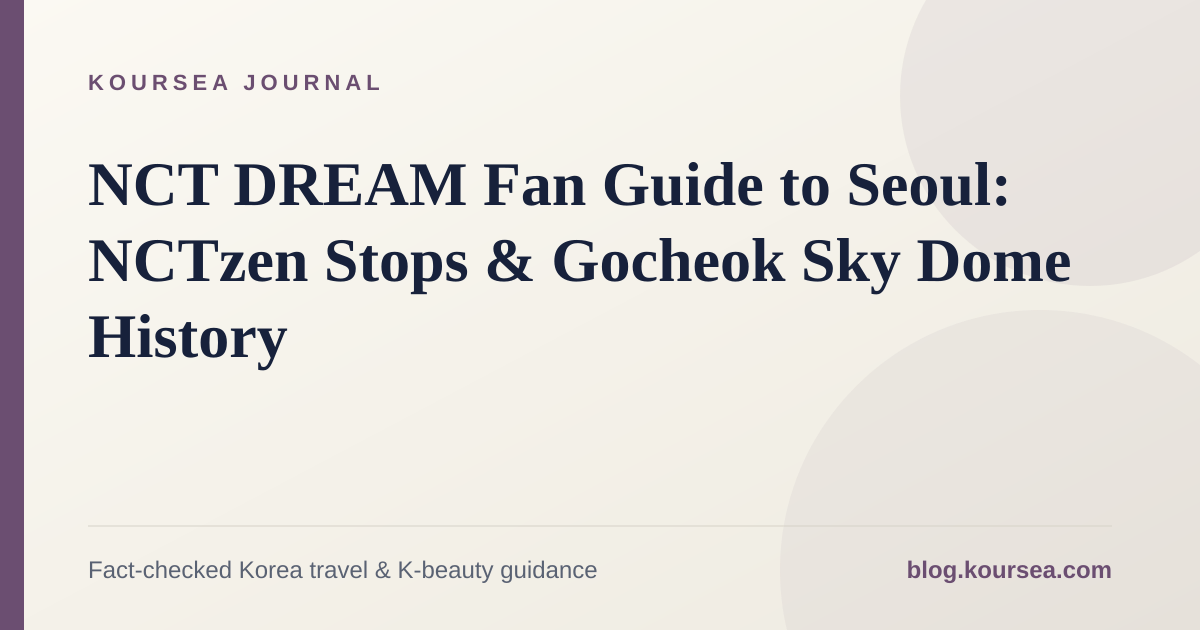
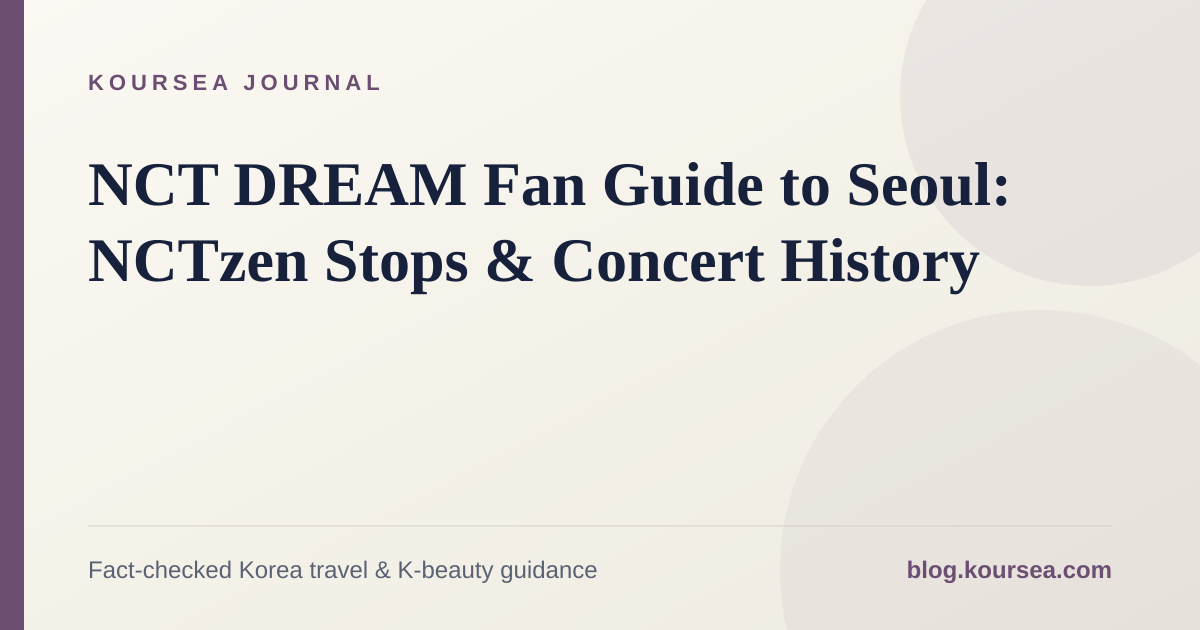
Fix NCT DREAM concert history, ticket pickup claims, and Jeonju travel-time citation
- NCT DREAM post: correct "most recent Seoul concert" from July 2025 Gocheok
  Sky Dome to the March 2026 KSPO DOME finale (six-show THE DREAM SHOW 4:
  FUTURE THE DREAM, confirmed via official Weverse notice + corroborated by
  Korean entertainment press). Distinguish the shared NCTzen fandom name from
  the "NCTzen DREAM" (GL) membership actually used for ticket presales.
  Replace "no official announcement" framing with "could not confirm through
  channels checked" where that's the accurate claim.
- Ticketing post: remove unsourced generalizations about pickup mechanics
  (reservation-number-only, kiosk pickup, pickup-window timing, Yes24
  will-call-only, uniform ID rules) and replace with a checklist of what to
  confirm from each show's own official notice instead.
- Jeonju post: remove the unsourced "1.5-2 hours" KTX estimate; point readers
  to the official KORAIL/SRT search instead, and distinguish Yongsan (KTX)
  from Suseo (SRT) departure stations. Fix a "next section" reference that
  no longer matched section order, and stop implying all hanok stays use
  floor bedding.

Claude-Session: https://claude.ai/code/session_016wJQfJdigc7spdJqcPYteE

Changed region(s): [[0.4625, 0.3619, 0.8942, 0.4825], [0.0617, 0.4825, 0.2467, 0.6032]]

diff --git a/src/content/posts/nct-dream-fan-guide-seoul.md b/src/content/posts/nct-dream-fan-guide-seoul.md
@@ -1,31 +1,31 @@
 ---
-title: "NCT DREAM Fan Guide to Seoul: NCTzen Stops & Gocheok Sky Dome History"
-description: "A practical NCT DREAM fan guide to Seoul: the shared KWANGYA@SEOUL retail stop, the group's Gocheok Sky Dome tour history, and what's still unconfirmed for late 2026."
+title: "NCT DREAM Fan Guide to Seoul: NCTzen Stops & Concert History"
+description: "A practical NCT DREAM fan guide to Seoul: the shared KWANGYA@SEOUL retail stop, the group's Gocheok Sky Dome and KSPO DOME concert history, and what's still unconfirmed beyond it."
 pubDate: 2026-09-22
 updatedDate: 2026-09-22
 category: "K-Pop & Concerts"
-tags: ["nct dream", "nctzen", "kwangya seoul", "gocheok sky dome", "sm entertainment", "kpop concert tickets"]
+tags: ["nct dream", "nctzen", "kwangya seoul", "kspo dome", "sm entertainment", "kpop concert tickets"]
 canonicalUrl: "https://blog.koursea.com/posts/nct-dream-fan-guide-seoul/"
 author: "Koursea Editorial"
 faq:
   - question: "Where is the official public NCT DREAM stop in Seoul?"
     answer: "This guide points to the shared KWANGYA@SEOUL retail store in Seongsu, the same official SM Entertainment stop already documented in Koursea's NCT 127 and RIIZE guides, rather than creating a duplicate venue entry."
-  - question: "Has NCT DREAM confirmed a Seoul concert or venue for late 2026?"
-    answer: "Not as of this writing. NCT's 10th-anniversary plans have been reported for the wider group, but no NCT DREAM-specific 2026 Seoul tour date or venue was confirmed through an official channel when this guide was checked."
-  - question: "Where did NCT DREAM last perform in Seoul?"
-    answer: "Their own official account confirmed three Dream Show 4: Dream the Future dates at Gocheok Sky Dome on July 10-12, 2025. That tour is now finished."
+  - question: "Where did NCT DREAM most recently perform in Seoul?"
+    answer: "Their official Weverse notice confirmed a six-show 'THE DREAM SHOW 4: FUTURE THE DREAM' FINALE at KSPO DOME on March 20, 21, 22, 27, 28, and 29, 2026, corroborated by Korean entertainment press. Their July 2025 Gocheok Sky Dome shows opened that same tour and are not the most recent Seoul dates."
+  - question: "Is 'NCTzen' the same as the membership needed for a DREAM ticket presale?"
+    answer: "No. NCTzen is NCT's shared fandom name across all units. The specific membership used for NCT DREAM ticket presales is 'NCTzen DREAM' (GL) — sign up for it separately on Weverse before a sale, rather than assuming the general fandom name alone grants presale access."
 ---
 
-# NCT DREAM Fan Guide to Seoul: NCTzen Stops & Gocheok Sky Dome History
+# NCT DREAM Fan Guide to Seoul: NCTzen Stops & Concert History
 
-NCT DREAM is an SM Entertainment group and shares the collective's official fandom name, **NCTzen**, with NCT's other units. There is no separately adopted official fandom name just for DREAM, whatever informal nicknames circulate among fans. For a Seoul visit, the useful official public stop is the same [KWANGYA@SEOUL](https://www.koursea.com/place/sm-kwangya-seoul-forest/) already covered on Koursea's [NCT 127](/posts/nct127-fan-guide-sm-seongsu/) and [RIIZE](/posts/riize-fan-guide-sm-seongsu/) guides — not a separate DREAM-only shop, and not the old SMTOWN Coex Artium.
+NCT DREAM is an SM Entertainment group and shares the collective's official fandom name, **NCTzen**, with NCT's other units. For ticket presales specifically, the group uses its own membership tier, **"NCTzen DREAM" (GL)**, registered through Weverse — don't confuse the general fandom name with the specific membership a presale actually checks. For a Seoul visit, the useful official public stop is the same [KWANGYA@SEOUL](https://www.koursea.com/place/sm-kwangya-seoul-forest/) already covered on Koursea's [NCT 127](/posts/nct127-fan-guide-sm-seongsu/) and [RIIZE](/posts/riize-fan-guide-sm-seongsu/) guides — not a separate DREAM-only shop, and not the old SMTOWN Coex Artium.
 
 ## Key Takeaways
 
-- NCT DREAM's fandom name is NCTzen, shared across NCT and its units; there is no confirmed DREAM-specific official fandom name.
+- NCT DREAM's fandom name is NCTzen, shared across NCT and its units. Ticket presales instead check a specific membership, "NCTzen DREAM" (GL) — register for it separately on Weverse.
 - The group's shared official retail stop is KWANGYA@SEOUL in Seongsu — see our [NCT 127 guide](/posts/nct127-fan-guide-sm-seongsu/) and [SM KWANGYA Seongsu tour route](/posts/sm-kwangya-seongsu-tour-guide/) for the actual visit directions; this guide does not repeat them.
 - Do not travel to the former SMTOWN Coex Artium. It closed completely in 2020 and is not a current SM destination.
-- NCT DREAM's most recent Seoul concerts were three Gocheok Sky Dome dates in July 2025, and that tour has since finished. No NCT DREAM-specific Seoul venue or date is confirmed for late 2026 as of this writing.
+- NCT DREAM's most recent confirmed Seoul dates were a six-show "THE DREAM SHOW 4: FUTURE THE DREAM" FINALE at KSPO DOME in March 2026, which followed the same tour's July 2025 opening shows at Gocheok Sky Dome. We could not confirm a new Seoul date beyond that finale through the official channels checked for this guide.
 - Prepare with the [Foreigner's Guide to K-Pop Concert Ticketing in Seoul](/posts/kpop-concert-ticketing-seoul-2026/) before any future sale.
 
 ## The Shared Official Stop, Not a New One
@@ -34,21 +34,23 @@ KWANGYA@SEOUL, at B1, D Tower, Acro Seoul Forest, 83-21 Wangsimni-ro, Seongdong-
 
 SMTOWN Coex Artium is a separate point worth repeating on its own: it closed completely in 2020 and is not an operating SM visitor destination. Any post, video, or map pin that still treats Coex as a current SMTOWN stop is out of date.
 
-## NCT DREAM's Gocheok Sky Dome History
+## NCT DREAM's Seoul Concert History: Gocheok Sky Dome, Then KSPO DOME
 
-NCT DREAM's own official account confirmed three Seoul dates for **The Dream Show 4: Dream the Future** at **Gocheok Sky Dome** — July 10, 11, and 12, 2025. Roughly 60,000 fans attended across the three nights, per contemporaneous entertainment-press reporting. The tour continued through other Asian cities into late 2025 and early 2026, and by September 2026 it had wrapped.
+NCT DREAM's **THE DREAM SHOW 4** tour opened in Seoul with three dates at **Gocheok Sky Dome** — July 10, 11, and 12, 2025 — and roughly 60,000 fans attended across those three nights, per contemporaneous entertainment-press reporting.
 
-This history is useful context for what a future NCT DREAM show in Seoul might look like, but it is not a current booking. If DREAM announces a new Seoul date, Koursea's [K-Pop concert day venue and transport guide](/posts/kpop-concert-day-venue-transport-guide-2026/) already covers Gocheok Sky Dome's Line 1 Guil Station access, parking limits, and post-show crowd flow in detail — read that guide once a real date and venue are announced, rather than assuming the 2025 run will repeat at the same venue.
+That same tour returned to Seoul for its close: NCT DREAM's own [official Weverse notice](https://weverse.io/nctdream/notice/33191) confirmed a six-show **"THE DREAM SHOW 4: FUTURE THE DREAM" FINALE** at **KSPO DOME**, held March 20, 21, 22, 27, 28, and 29, 2026. This is corroborated by Korean entertainment press — [Starnews](https://www.starnewskorea.com/en/music/2026/03/03/2026030310465025761) reported all six shows sold out instantly after presale, and [allkpop](https://www.allkpop.com/article/2026/03/nct-dream-tour-finale-to-be-broadcast-live-in-86-cities-worldwide) reported the finale was also broadcast live in cinemas across 86 cities worldwide. **The KSPO DOME finale, not the July 2025 Gocheok Sky Dome shows, is NCT DREAM's most recent confirmed Seoul concert.**
 
-## What's Confirmed for Late 2026 — and What Isn't
+For a future Seoul show, Koursea's [K-Pop concert day venue and transport guide](/posts/kpop-concert-day-venue-transport-guide-2026/) already covers both venues — KSPO DOME's Olympic Park Station access and Gocheok Sky Dome's Line 1 Guil Station access — in detail. Read that guide once a new date and venue are announced, rather than assuming either venue will repeat.
 
-SM's wider NCT collective announced a 10th-anniversary project in 2026 covering an album release, world tours, and exhibition plans, reported by entertainment press. That confirms NCT-wide activity is planned, but it does not confirm an NCT DREAM-specific Seoul concert date, venue, or ticketing window. We could not confirm a DREAM-specific late-2026 schedule through an official SM or NCT DREAM channel at the time this guide was checked. Treat any fan-account schedule breakdown you see elsewhere as unofficial until the group or SM posts it directly through Weverse or their own account.
+## What's Confirmed Beyond the March 2026 Finale — and What Isn't
 
-If you're planning a trip around a possible NCT DREAM comeback, don't book travel or tickets around an unconfirmed date. Watch NCT DREAM's official Weverse and SM's own channels, and use our ticketing guide once a real sale is announced.
+Beyond the March 2026 KSPO DOME finale, we could not confirm a new NCT DREAM Seoul concert date, venue, or ticketing window through the official channels checked for this guide. That is a statement about the limits of this check, not a confirmed absence of plans — we were not able to review every official SM or NCT DREAM channel. Separately, SM's wider NCT collective has reported group-wide 10th-anniversary plans (album release, world tours, exhibition) through entertainment press, which confirms NCT-wide activity but not an NCT DREAM-specific Seoul date beyond the finale above.
+
+If you're planning a trip around a possible new NCT DREAM date, don't book travel or tickets around an unconfirmed show. Watch NCT DREAM's official Weverse and SM's own channels, and use our ticketing guide once a real sale is announced.
 
 ## Concert Preparation for a Future Show
 
-When NCT DREAM does announce a new Seoul date, expect the same general pattern documented in our NCT 127 and RIIZE guides: a fan-club presale first, identity verification tied to your ticket-platform account, and a general sale afterward. Confirm the seller, NCTzen membership presale steps, account-name-to-passport matching, and pickup or mobile-ticket format from that tour's own notice. Don't assume the last tour's process repeats exactly.
+For NCT DREAM specifically, the presale gate is the **"NCTzen DREAM" (GL) membership** on Weverse — register for it ahead of a sale, since the general NCTzen fandom name alone does not grant presale access. Beyond that, expect the same general pattern documented in our NCT 127 and RIIZE guides: a fan-club presale first, identity verification tied to your ticket-platform account, and a general sale afterward. Confirm the seller, membership registration deadline, account-name-to-passport matching, and pickup or mobile-ticket format from that show's own notice — don't assume the March 2026 finale's process repeats exactly for a different show.
 
 Our [K-Pop concert ticketing guide](/posts/kpop-concert-ticketing-seoul-2026/) covers NOL World, Melon Ticket, Yes24, the Korean phone-number verification step, and ticket pickup mechanics without assuming one platform's rules apply to every show.
 
@@ -56,4 +58,4 @@ Our [K-Pop concert ticketing guide](/posts/kpop-concert-ticketing-seoul-2026/) c
 
 - **Is there an NCT DREAM-only store in Seoul?** No. This guide uses the shared official KWANGYA@SEOUL location documented in our NCT 127 and RIIZE guides.
 - **Can I still visit SMTOWN Coex Artium?** No. It closed in 2020 and should not be used as an NCT DREAM destination.
-- **Where did NCT DREAM last perform in Seoul, and can I visit for a future show?** Their most recent confirmed Seoul dates were at Gocheok Sky Dome in July 2025. No new NCT DREAM Seoul date is confirmed as of this writing, so don't plan a trip around an unannounced show.
+- **Where did NCT DREAM most recently perform in Seoul?** A six-show "THE DREAM SHOW 4: FUTURE THE DREAM" FINALE at KSPO DOME in March 2026 — not the July 2025 Gocheok Sky Dome shows, which opened the same tour. We could not confirm a new Seoul date beyond that finale as of this writing.

diff --git a/src/content/posts/kpop-concert-ticketing-seoul-2026.md b/src/content/posts/kpop-concert-ticketing-seoul-2026.md
@@ -25,7 +25,7 @@ faq:
   - question: "What should I do before the on-sale waiting room opens?"
     answer: "Finish account verification and save the payment method before the queue opens, choose one site language, and follow the platform's own notice if checkout fails."
   - question: "Do I get a printable ticket after I pay?"
-    answer: "Often not immediately. Many platforms issue a reservation number that you exchange for a physical ticket at a venue box office or kiosk, with an original passport or Alien Registration Card required; some shows instead use an in-app mobile ticket. Check your confirmation email or the tour's own notice to know which applies to your show."
+    answer: "It depends on the show — some use box-office or kiosk pickup with ID, others issue an in-app mobile ticket, and we could not confirm a single rule that covers every platform or concert. Check your confirmation email and the tour's own notice for your specific show rather than assuming one format."
 ---
 
 # The Foreigner's Guide to K-Pop Concert Ticketing in Seoul (2026): NOL World, Melon Ticket & Payment Reality
@@ -73,13 +73,21 @@ High-demand shows on all three platforms use a **예매대기 (virtual waiting r
 - **Site language toggles (Korean/English) sometimes reset your session** — decide which language you're booking in and stick with it.
 - **If checkout fails partway through, don't refresh and restart blindly** — some platforms hold your seat for a short grace period, others release it immediately. Read the specific platform's own notice, since this varies.
 
-## Getting Your Physical Ticket: Box-Office Pickup vs. Mobile Entry
+## Getting Your Ticket: What to Confirm Before Show Day
 
-Finishing checkout doesn't mean you're holding a ticket. On most Korean concert platforms, what you get right after paying is a reservation number, not a scannable file, and multiple foreigner ticket-buying guides describe the same pattern for turning that into entry: go to the venue's box office or a self-service kiosk, enter the reservation number, and show ID to collect a physical ticket or wristband. Box-office pickup commonly opens a few hours before doors, not at showtime, so arriving right as the show starts can mean queuing behind everyone else doing the same pickup.
+Finishing checkout doesn't automatically mean you're holding a ticket. Korean concert platforms use a mix of formats — box-office or kiosk pickup against a reservation number, and in-app mobile tickets — and which one applies depends on the specific platform, promoter, and show. We could not confirm a single rule that covers every concert, so treat the checklist below as what to verify from your own show's official notice, not a fixed process.
 
-The identification requirement is strict and consistent across the guides we checked: bring the original passport or Alien Registration Card used on the booking account, not a photo or screenshot, and make sure the name matches your account exactly. Staff can and do refuse pickup over a mismatched or expired document. Yes24-sold shows are commonly described as will-call only, with no separate mobile-ticket option, while other platforms increasingly offer an in-app mobile ticket for at least some shows. Don't assume either format applies to your specific concert — the confirmation email or app screen after checkout, or the tour's own ticketing notice, is what actually tells you whether you're picking up at a window or scanning a phone at the gate.
+Before ticket day, confirm each of these from your confirmation email, the platform's account page, or the tour's own notice:
 
-Build pickup time into your concert-day schedule rather than treating it as a five-minute stop, especially if you're also collecting merchandise. For box-office lines and station transport at specific venues, our [K-Pop concert day venue and transport guide](/posts/kpop-concert-day-venue-transport-guide-2026/) covers KSPO Dome, Gocheok Sky Dome, Inspire Arena, and Jamsil Indoor Stadium in more detail.
+- **Delivery format.** Is this show box-office/kiosk pickup, or an in-app mobile ticket? Don't assume based on a different concert or platform you've used before.
+- **Pickup location and hours**, if it's a physical pickup — which counter or kiosk, and what time it opens relative to doors. Some notices specify pickup opens a set number of hours before the show; others don't say, so check rather than assume.
+- **Accepted ID and name matching.** Which original ID is required (passport, Alien Registration Card, or another document the notice names), whether a photo or screenshot is accepted, and whether the name must match your booking account exactly.
+- **Anything else the notice asks for** — a printed or digital reservation confirmation, fan-club membership proof, or additional verification.
+- **Whether a companion or someone else can collect on your behalf**, and what that requires — some notices allow it with extra documentation, others don't allow it at all.
+
+If a platform's general pattern is relevant context, cite that platform's own notice for the specific show rather than treating it as a universal rule — what one promoter requires on one platform doesn't necessarily apply to a different concert on the same platform.
+
+Build ticket collection into your concert-day schedule rather than treating it as a five-minute stop, especially if you're also collecting merchandise. For box-office lines and station transport at specific venues, our [K-Pop concert day venue and transport guide](/posts/kpop-concert-day-venue-transport-guide-2026/) covers KSPO Dome, Gocheok Sky Dome, Inspire Arena, and Jamsil Indoor Stadium in more detail.
 
 ## What to Skip
 

diff --git a/src/content/posts/jeonju-hanok-village-guide.md b/src/content/posts/jeonju-hanok-village-guide.md
@@ -30,9 +30,9 @@ The official city site also publishes suggested walking routes and guided walks.
 
 Decide this before you book anything else — it changes your train times, your evening plan, and whether you need to reserve a room at all.
 
-A day trip works well if you mainly want the walkable heritage core: Jeondong Cathedral, Gyeonggijeon Shrine, the hanbok photo streets, and one sit-down meal. Multiple KTX booking sites put the ride from Seoul's Yongsan Station at roughly 1.5 to 2 hours each way — treat that as a rough planning range rather than a fixed number, and confirm the exact duration for your date in the official [KORAIL](https://www.letskorail.com/) or [SRT](https://etk.srail.kr/) search before booking. With a similar return trip, an early outbound train still leaves a workable window in the village for a same-day visit.
+A day trip works well if you mainly want the walkable heritage core: Jeondong Cathedral, Gyeonggijeon Shrine, the hanbok photo streets, and one sit-down meal. Travel time depends on your departure station and the specific train — KTX from Seoul's Yongsan Station and SRT from Suseo Station are different services with different schedules, so don't treat them as interchangeable. Check the round-trip time for your actual date in the official [KORAIL](https://www.letskorail.com/) or [SRT](https://etk.srail.kr/) booking search, together with the onward travel from Jeonju Station into the Hanok Village, before deciding whether a day trip leaves you enough time.
 
-An overnight stay is worth the extra planning if you want the village once the day-trip crowds thin out, or if hanbok photos in early-morning or evening light matter to you. As the next section covers, a hanok stay also means floor bedding and a different check-in rhythm than a hotel, so it's worth deciding on that adjustment before you commit to the extra night, not after.
+An overnight stay is worth the extra planning if you want the village once the day-trip crowds thin out, or if hanbok photos in early-morning or evening light matter to you. Room setup and bedding vary by property — see "Staying overnight in a hanok" below for what to confirm — so it's worth checking those details before you commit to the extra night, not after.
 
 If you're still unsure, pace is usually the deciding factor: travelers moving on to another city the same day tend to do better with a day trip and an early return train, while travelers treating Jeonju as its own stop tend to prefer staying over.
 
